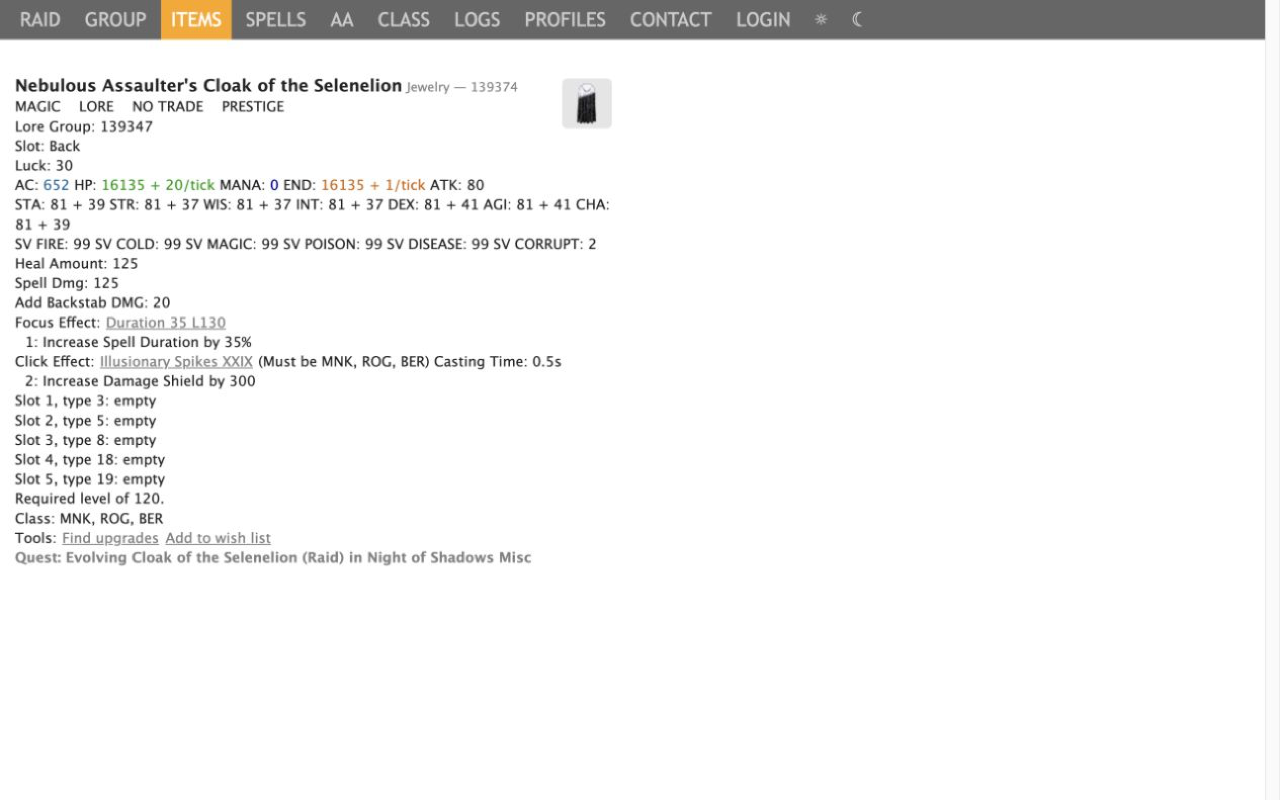
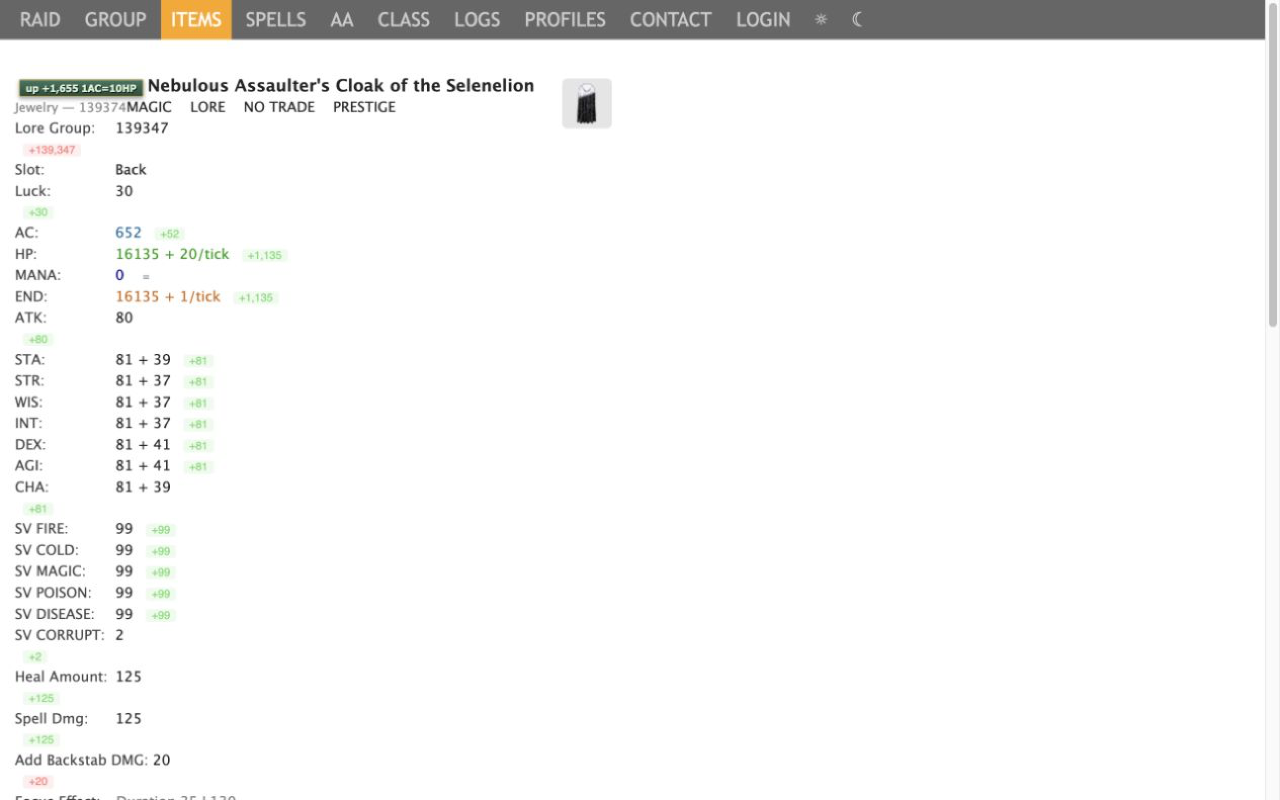
Complete final review fixes

Changed region(s): [[0.0, 0.0938, 0.4688, 1.0], [0.9688, 0.0, 1.0, 0.4062]]

diff --git a/tests/regression.js b/tests/regression.js
@@ -81,10 +81,32 @@ const bridgeContext = {
   document: bridgeDocument,
   XMLHttpRequest: FakeXHR,
   CustomEvent: FakeCustomEvent,
+  TextDecoder,
   URL,
   location: { href: 'https://guild.opendkp.com/' },
   console,
 };
+bridgeContext.fetch = () => Promise.resolve({
+  url: 'https://guild.opendkp.com/api/items/45',
+  clone() {
+    return {
+      headers: { get() { return null; } },
+      body: {
+        getReader() {
+          let read = false;
+          return {
+            async read() {
+              if (read) return { done: true };
+              read = true;
+              return { done: false, value: new Uint8Array(512 * 1024 + 1) };
+            },
+            async cancel() {},
+          };
+        },
+      },
+    };
+  },
+});
 class TestURL extends URL {
   get origin() { return this.protocol === 'chrome-extension:' ? this.protocol + '//' + this.hostname : super.origin; }
 }
@@ -112,7 +134,7 @@ bridgeContext.dispatchEvent({
   type: 'message',
   isTrusted: true,
   source: bridgeFrameWindow,
-  origin: 'https://extension.test',
+  origin: 'https://attacker.test',
   data: { type: 'loot-captain-consent-accepted' },
 });
 const forgedXhr = new FakeXHR();
@@ -138,7 +160,7 @@ jsonXhr.send();
 assert.equal(bridgeEvents.length, 1);
 assert.equal(JSON.parse(bridgeEvents[0].detail).data.ItemID, 42);
 const oversizedTextXhr = new FakeXHR();
-oversizedTextXhr.responseText = 'x'.repeat(512 * 1024 + 1);
+oversizedTextXhr.responseText = JSON.stringify({ ItemID: 43, ItemName: 'x'.repeat(512 * 1024) });
 oversizedTextXhr.open('GET', 'https://guild.opendkp.com/api/items/43');
 oversizedTextXhr.send();
 assert.equal(bridgeEvents.length, 1);
@@ -148,6 +170,7 @@ oversizedJsonXhr.response = { ItemID: 44, ItemName: 'x'.repeat(512 * 1024) };
 oversizedJsonXhr.open('GET', 'https://guild.opendkp.com/api/items/44');
 oversizedJsonXhr.send();
 assert.equal(bridgeEvents.length, 1);
+const oversizedFetch = bridgeContext.fetch('https://guild.opendkp.com/api/items/45');
 assert.match(read('options/options.html'), /id="consent-gate" class="consent-gate hidden"/);
 assert.match(read('options/options.js'), /gate\.classList\.add\('hidden'\)/);
 
@@ -207,6 +230,9 @@ vm.runInNewContext(read('content/shared/state.js'), stateContext, { filename: 'c
 const state = stateContext.LootCaptain.state;
 
 (async () => {
+  await oversizedFetch;
+  await new Promise((resolve) => setImmediate(resolve));
+  assert.equal(bridgeEvents.length, 1);
   await state.getSelectedProfile();
   assert.equal(profiles.p.name, 'Edited');
   assert.equal(saves, 0);

diff --git a/content/opendkp-page.js b/content/opendkp-page.js
@@ -72,7 +72,7 @@
         readLimitedText(response.clone()).then((text) => {
           if (text == null) return;
           try { publish(response.url, JSON.parse(text)); } catch (e) {}
-        });
+        }).catch(() => {});
       }).catch(() => {});
       return promise;
     };
